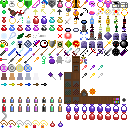
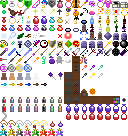
add unique sprites for max pots

diff --git a/tools/port_doomed.py b/tools/port_doomed.py
@@ -12,6 +12,7 @@ What it does:
   * Points their sprites at copies of the Doomed Realms sprite sheets, registered in the client
     under a "dr" prefix (drLofiObj5, drChars8x8rPets1, ...), so they keep their exact art.
     The Potion of Maxy's sprite is overlaid on unused tile 0x7A of drLofiObj2.
+    The single-stat max potion sprites are appended to that sheet starting at tile 0x100.
     RemoteTexture sprites (downloaded once into tools/doomed/remote/ by --fetch-remote) become
     one small sheet each (drRemote<id>).
   * Writes the XML for the server (source/Shared/resources/xml/custom/DoomedRealms.xml) and the
@@ -52,6 +53,18 @@ CLIENT_IMAGES = os.path.join(CLIENT_ASSETS, "doomed", "images")
 CLIENT_ASSETS_AS = os.path.join(CLIENT_ASSETS, "doomed", "DoomedAssets.as")
 MAXY_POTION_SPRITE = os.path.join(STATE, "potion_maxy.png")
 MAXY_POTION_INDEX = 0x7A
+SINGLE_STAT_MAX_POTIONS_SPRITE = os.path.join(STATE, "single_stat_max_potions.png")
+SINGLE_STAT_MAX_POTIONS = (
+    "Potion of Max Life",
+    "Potion of Max Mana",
+    "Potion of Max Defense",
+    "Potion of Max Attack",
+    "Potion of Max Speed",
+    "Potion of Max Dexterity",
+    "Potion of Max Vitality",
+    "Potion of Max Wisdom",
+)
+SINGLE_STAT_MAX_POTION_START_INDEX = 0x100
 
 TYPE_START, TYPE_END = 0xD000, 0xDFFF
 PORTED_CLASSES = {"Equipment", "Dye", "Player"}
@@ -427,6 +440,8 @@ SPRITE_DONORS = {"Elder Beach Portal": "Beachzone Portal"}
 TEXTURE_OVERRIDES = {"Oryx the Mad God 4": ("hashCellarOryx16x16", 0),
                      # the player's 8x8 sprite overlays an unused tile in drLofiObj2
                      "Potion of Maxy": ("drLofiObj2", MAXY_POTION_INDEX),
+                     **{name: ("drLofiObj2", SINGLE_STAT_MAX_POTION_START_INDEX + i)
+                        for i, name in enumerate(SINGLE_STAT_MAX_POTIONS)},
                      # the incantations' seals (tools/draw_oryx_gates.py, INCANTATION_CELLS)
                      "Hash Cellar Incantation": ("oryxIncantations16x16", 1),
                      "Doomed Cellar Incantation": ("oryxIncantations16x16", 2),
@@ -1240,17 +1255,45 @@ def write_assets(sheets, remotes, images_dir):
 
             with Image.open(dst) as source:
                 sheet = source.convert("RGBA")
-            with Image.open(MAXY_POTION_SPRITE) as source:
-                sprite = source.convert("RGBA")
-            if sprite.size != (8, 8) or sheet.width % 8 or sheet.height % 8:
-                sys.exit("Potion of Maxy sprite and lofiObj2 must use 8x8 tiles")
+            if sheet.width % 8 or sheet.height % 8:
+                sys.exit("lofiObj2 dimensions must align to 8x8 tiles")
             columns = sheet.width // 8
-            x, y = (MAXY_POTION_INDEX % columns) * 8, (MAXY_POTION_INDEX // columns) * 8
-            if x + 8 > sheet.width or y + 8 > sheet.height:
+            if MAXY_POTION_INDEX >= columns * (sheet.height // 8):
                 sys.exit("Potion of Maxy sprite index is outside lofiObj2")
-            if any(sheet.getpixel((px, py))[3] for py in range(y, y + 8) for px in range(x, x + 8)):
-                sys.exit("Potion of Maxy sprite tile is no longer empty")
-            sheet.paste(sprite, (x, y))
+            with Image.open(MAXY_POTION_SPRITE) as source:
+                maxy = source.convert("RGBA")
+            with Image.open(SINGLE_STAT_MAX_POTIONS_SPRITE) as source:
+                stat_potions = source.convert("RGBA")
+            if maxy.size != (8, 8):
+                sys.exit("Potion of Maxy sprite must be 8x8")
+            if stat_potions.size != (len(SINGLE_STAT_MAX_POTIONS) * 8, 8):
+                sys.exit("Single-stat max potion sprites must be one 8x8 tile per potion")
+
+            def tile_position(index):
+                return (index % columns) * 8, (index // columns) * 8
+
+            def ensure_empty(index):
+                x, y = tile_position(index)
+                if x + 8 > sheet.width or y + 8 > sheet.height:
+                    sys.exit("Potion sprite index %s is outside lofiObj2" % hex(index))
+                if any(sheet.getpixel((px, py))[3] for py in range(y, y + 8) for px in range(x, x + 8)):
+                    sys.exit("Potion sprite tile %s is no longer empty" % hex(index))
+
+            ensure_empty(MAXY_POTION_INDEX)
+            stat_indices = range(SINGLE_STAT_MAX_POTION_START_INDEX,
+                                 SINGLE_STAT_MAX_POTION_START_INDEX + len(SINGLE_STAT_MAX_POTIONS))
+            required_height = max(sheet.height, ((stat_indices.stop - 1) // columns + 1) * 8)
+            if required_height > sheet.height:
+                extended = Image.new("RGBA", (sheet.width, required_height), (0, 0, 0, 0))
+                extended.paste(sheet, (0, 0))
+                sheet = extended
+            for i, index in enumerate(stat_indices):
+                ensure_empty(index)
+                x, y = tile_position(index)
+                sprite = stat_potions.crop((i * 8, 0, (i + 1) * 8, 8))
+                sheet.paste(sprite, (x, y))
+            x, y = tile_position(MAXY_POTION_INDEX)
+            sheet.paste(maxy, (x, y))
             sheet.save(dst)
         embeds.append('      [Embed(source="images/%s.png")]\n      private static const %s:Class;\n' % (name, name))
 

diff --git a/SETUP-LOCAL.md b/SETUP-LOCAL.md
@@ -650,6 +650,11 @@ The remotes `upstream` (HaloCelsius) and `aurusenth` share no history with `main
   `tools/doomed/potion_maxy.png`): the supplied 8×8 art is added to unused tile `0x7A` of
   `drLofiObj2`, and both generated XML copies reference it. Redeploy the client and world server;
   no Redis change.
+- **Single-stat max potion sprites** (2026-11-12; `tools/port_doomed.py`,
+  `tools/doomed/single_stat_max_potions.png`): each of the eight Potions of Max now uses its own
+  supplied sprite in order from Life to Wisdom, appended to `drLofiObj2` at tiles `0x100`–`0x107`.
+  Both generated XML copies reference their matching tile. Redeploy the client and world server;
+  no Redis change.
 - **Wiki command** (2026-11-11; `WorldServer/core/commands/player/Command.Wiki.cs`):
   `/wiki` sends players a link to `https://www.dodmg.com/wiki`. Added its description to the
   generated website command list. Redeploy the world servers and website; no client, protocol or

diff --git a/client-rs/CHANGELOG.md b/client-rs/CHANGELOG.md
@@ -12,6 +12,11 @@ Keep each version short: changes go under `### ` group headings (Oryx 5, Arena, 
 on), one line per change players notice, summed up rather than item by item (the wiki has the
 details). Add to a group's line when a change adds to it, rather than adding another line.
 
+## Unreleased
+
+### Items
+- each single-stat Potion of Max now have their own sprites.
+
 ## 2.5.2 (2026-11-12)
 
 ### The Elder Shatters
